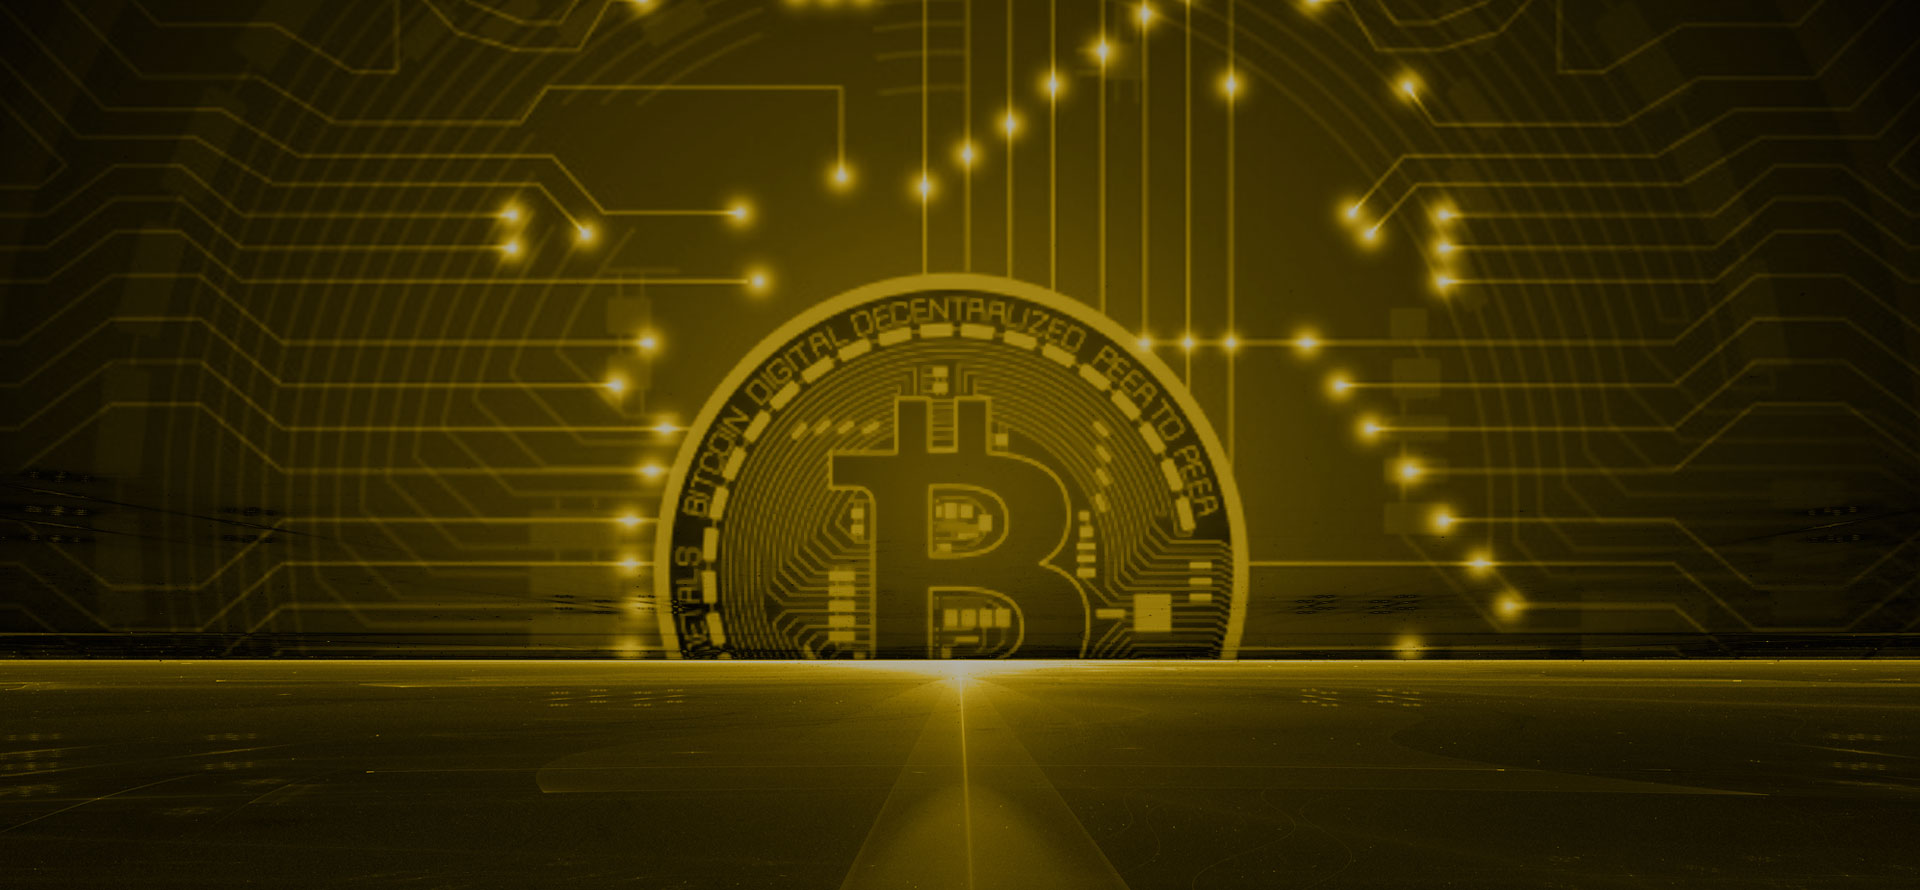
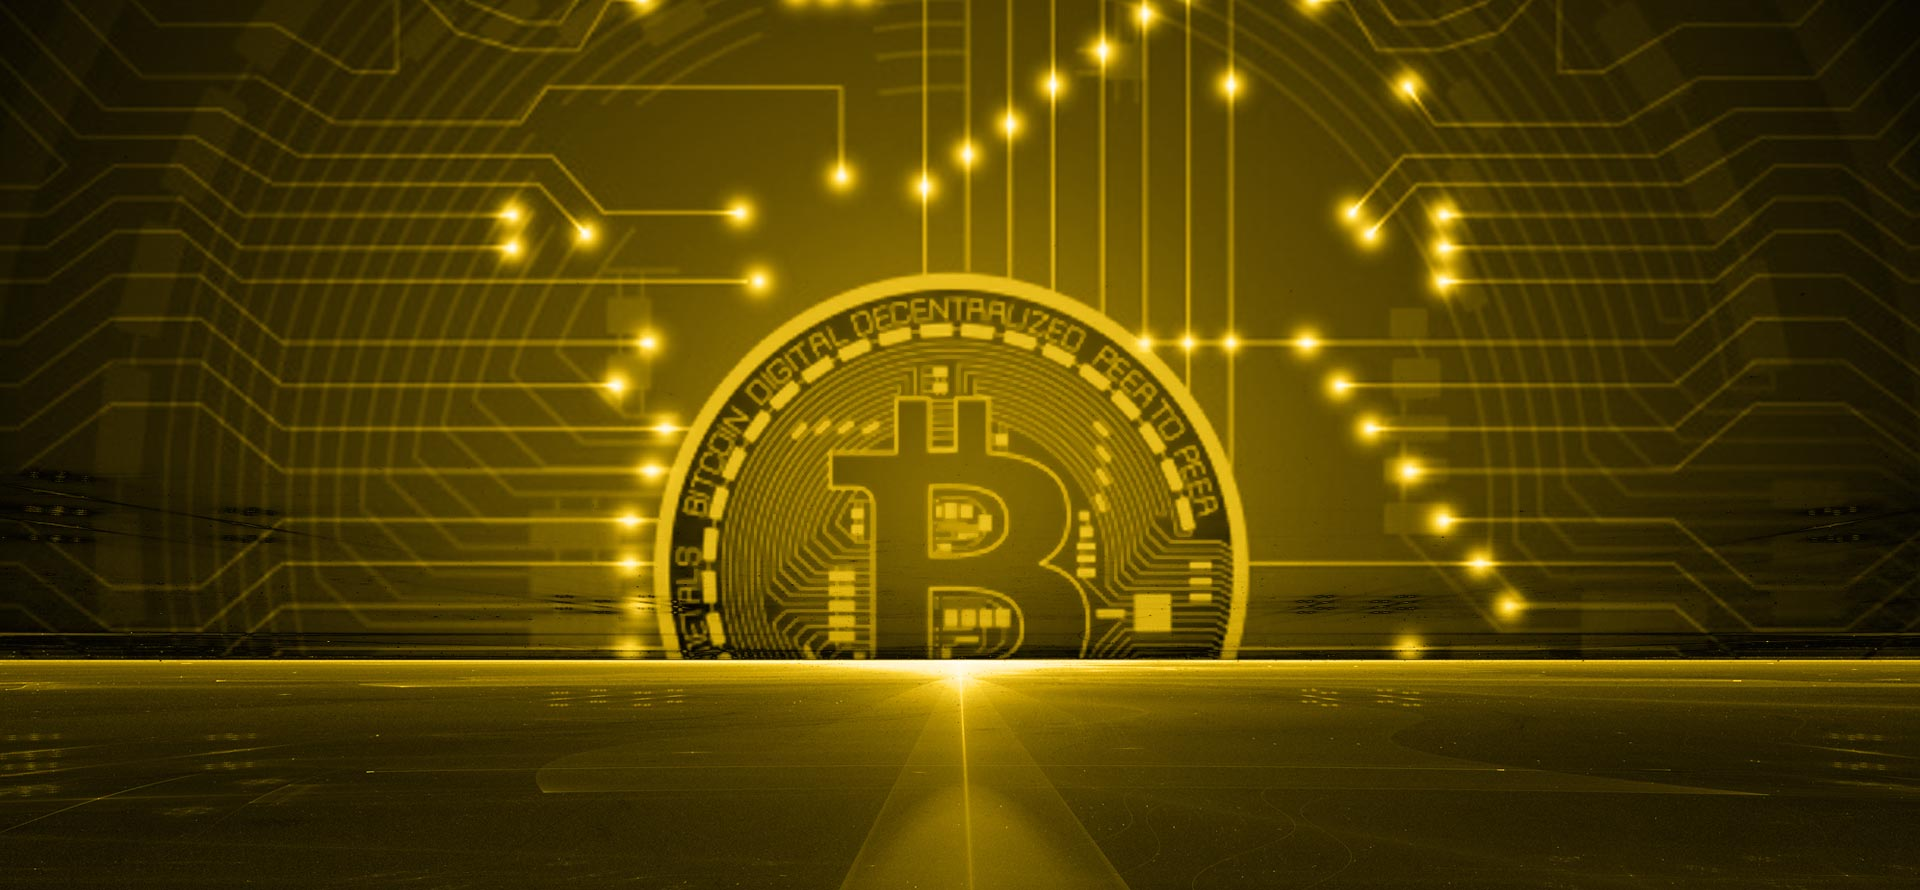
Imagenes y video

diff --git a/css/style.css b/css/style.css
@@ -12353,9 +12353,9 @@ ol.commentlist li::after {
 
 .any-query-contact img{
 	position: absolute;
-	top: -100px;
+	top: -90px;
 	left: 20%;
-	margin-left: -40px;
+	margin-left: 40px;
 }
 .any-query img, .any-query-contact img{
 	opacity:0.1;

diff --git a/layout/slider.php b/layout/slider.php
@@ -10,7 +10,7 @@
             <div id="rev_slider_149_1_wrapper" class="rev_slider_wrapper fullscreen-container rev-hide-timer " data-alias="snowaddon1" data-source="gallery" style="background-color:#2d3032;padding:0px;">
                 <div id="rev_slider_149_1" class="rev_slider fullscreenbanner" style="display:none;" data-version="5.4.1">
                     <ul>	<!-- SLIDE  -->
-                        <li data-index="rs-407" data-transition="fade" data-slotamount="default" data-hideafterloop="0" data-hideslideonmobile="off"  data-easein="default" data-easeout="default" data-masterspeed="2000"  data-thumb="images/main-slider/limacoin-compraventa-cripto.jpg"  data-rotate="0"  data-fstransition="fade" data-fsmasterspeed="1000" data-fsslotamount="7" data-saveperformance="off"  data-title="One" data-param1="" data-param2="" data-param3="" data-param4="" data-param5="" data-param6="" data-param7="" data-param8="" data-param9="" data-param10="" data-description="">
+                        <li data-index="rs-407" data-transition="fade" data-slotamount="default" data-hideafterloop="0" data-hideslideonmobile="off"  data-easein="default" data-easeout="default" data-masterspeed="2000"  data-thumb="images/main-slider/limacoin1.jpg"  data-rotate="0"  data-fstransition="fade" data-fsmasterspeed="1000" data-fsslotamount="7" data-saveperformance="off"  data-title="One" data-param1="" data-param2="" data-param3="" data-param4="" data-param5="" data-param6="" data-param7="" data-param8="" data-param9="" data-param10="" data-description="">
                             <!-- MAIN IMAGE -->
                             <img src="images/main-slider/limacoin1.jpg" class="opacity-01"  alt=""  data-bgposition="center center" data-kenburns="on" data-duration="20000" data-ease="Linear.easeNone" data-scalestart="130" data-scaleend="100" data-rotatestart="0" data-rotateend="0" data-offsetstart="0 0" data-offsetend="0 0" data-bgparallax="6" class="rev-slidebg" data-no-retina>
                             <!-- LAYERS -->
@@ -152,7 +152,7 @@
                                 data-paddingbottom="[0,0,0,0]"
                                 data-paddingleft="[0,0,0,0]"
                     
-                                style="z-index: 5;background-color:rgba(2, 14, 34, 0.8);"> </div>
+                                style="z-index: 5;background-color:rgba(2, 14, 34, 0.3);"> </div>
                         </li>
                         <!-- SLIDE  -->
                         <li data-index="rs-408" data-transition="fade" data-slotamount="default" data-hideafterloop="0" data-hideslideonmobile="off"  data-easein="default" data-easeout="default" data-masterspeed="2000"  data-thumb="limacoin-mineria-criptomonedas.jpg"  data-rotate="0"  data-saveperformance="off"  data-title="Two" data-param1="" data-param2="" data-param3="" data-param4="" data-param5="" data-param6="" data-param7="" data-param8="" data-param9="" data-param10="" data-description="">
@@ -298,7 +298,7 @@
                                 data-paddingbottom="[0,0,0,0]"
                                 data-paddingleft="[0,0,0,0]"
                     
-                                style="z-index: 5;background-color:rgba(2, 14, 34, 0.8);"> </div>
+                                style="z-index: 5;background-color:rgba(2, 14, 34, 0.3);"> </div>
                         </li>
                         
                     </ul>

diff --git a/layout/servicios.php b/layout/servicios.php
@@ -23,7 +23,7 @@
                             <div class="col-md-6 col-sm-6 bg-secondry" align="center">
                                 <div class="section-content p-tb100  clearfix">
                                     <div class="wt-center-part m-lr30 any-query">
-                                        <img src="images/limacoin-exchange.png" style="width: 0%; height: 0px;" alt="">
+                                        <img src="images/limacoin-exchange.png">
                                         <div class="text-center">
                                             <h3 class="text-uppercase font-weight-500 text-white">CASA DE CAMBIO - LIMA COIN</h3>
                                             <p class="text-white"> Limacoin es una casa de cambio que ofrece seguridad confianza y rapidez al momento de comprar o vender Bitcoin y demás criptomonedas.</p>  
@@ -34,8 +34,8 @@
                             </div>
                             <div class="col-md-6 col-sm-6 bg-primary" align="center">
                                 <div class="section-content p-tb100 clearfix">
-                                    <div class="wt-center-part m-lr30 any-query-contact">
-                                        <img src="images/omnia-tech.png" style="width: 0%; height: 0px;" alt="">
+                                    <div class="wt-center-part m-lr30 any-query-contact" align="center">
+                                        <img src="images/omnia.png">
                                         <div class="text-center">
                                             <h3 class="text-uppercase font-weight-500 text-white">MINERIA CLOUD - LIMA COIN</h3>
                                             <p class="text-white">Somos parte del corporativo OMNIA TECH empresa dedicada a CLOUD-MININ minería en la nube rentando la velocidad de sus maquinas.</p>

diff --git a/mineria-cloud.php b/mineria-cloud.php
@@ -124,7 +124,7 @@ include 'includes/head.php'
             
             <!-- CABECERA -->
             <div class="wt-bnr-inr overlay-wraper" style="background-image:url('images/banner/limacoin-omniatech.jpg');">
-                <div class="overlay-main bg-black opacity-03"></div>
+                <div class="overlay-main bg-black opacity-04"></div>
                 <div class="container">
                     <div class="wt-bnr-inr-entry">
                         <h1 class="text-white p-t80">CASA DE CAMBIO CRIPTOMONEDAS LIMA COIN</h1>
@@ -161,8 +161,8 @@ include 'includes/head.php'
                             </div>
                         </div>
                         <div class="col-md-6 col-sm-6">
-                            <div class="wt-media">
-                                <img src="images/servicios/limacoin_moneda.jpg" alt="" class="img-responsive"/>
+                            <div class="wt-media p-t60">
+                               <iframe style="width: 100%; height: 100%;" src="https://www.youtube.com/embed/-ClWXzxyYc8" frameborder="0" allow="autoplay; encrypted-media" allowfullscreen></iframe>
                             </div>
                         </div>
                     </div>

diff --git a/casa-de-cambio.php b/casa-de-cambio.php
@@ -124,7 +124,7 @@ include 'includes/head.php'
         <div class="page-content">
             
             <!-- CABECERA -->
-            <div class="wt-bnr-inr overlay-wraper" style="background-image:url('images/banner/limacoin-compraventa-btc.jpg');">
+            <div class="wt-bnr-inr overlay-wraper" style="background-image:url('images/banner/limacoin_moneda.jpg');">
                 <div class="overlay-main bg-black opacity-03"></div>
                 <div class="container">
                     <div class="wt-bnr-inr-entry">

diff --git a/index.php b/index.php
@@ -42,7 +42,7 @@ include 'includes/head.php'
                         
                             <div class="logo-header mostion">
                                 <a href="index.php">
-                                    <img src="images/logo-light.png" width="230" height="67" alt="" />
+                                    <img src="images/limacoineslogan.png" width="230" height="67" alt="" />
                                 </a>
                             </div>
 
